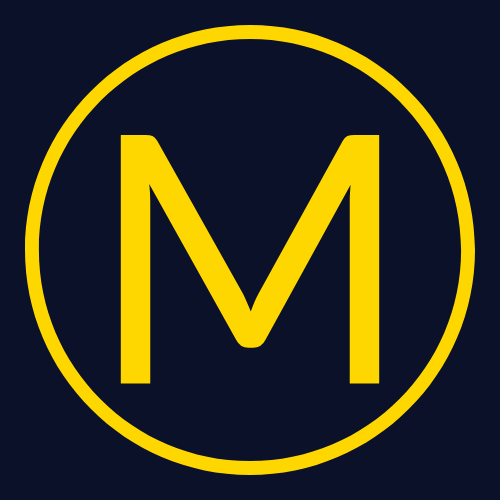
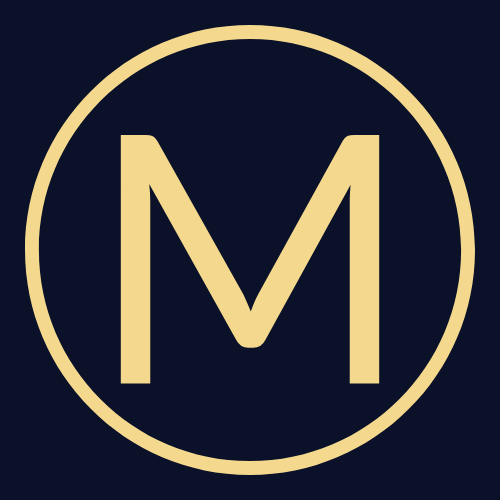
updated header.scss

Changed region(s): [[0.03, 0.03, 0.96, 0.96], [0.24, 0.27, 0.78, 0.78]]

diff --git a/src/components/pages/header/header.module.scss b/src/components/pages/header/header.module.scss
@@ -1,6 +1,29 @@
 .header{
     display: flex;
     align-items: center;
+    justify-content: space-between;
     max-width: 780px;
     margin: 0 auto;
+    padding-top: 20px;
+
+    .navBar{
+        display: flex;
+        align-items: center;
+        justify-content: space-between;
+        gap: 10px;
+        color: rgba(255, 255, 255, 0.9);
+
+        & a:hover{
+            color: #f3d88e;
+        }
+    }
+
+    .navIcons{
+        display: flex;
+        justify-content: space-between;
+        align-items: center;
+        width: 70px;
+        height: 40px;
+        margin: 0 10px;
+    }
 }

diff --git a/src/components/pages/header/Header.jsx b/src/components/pages/header/Header.jsx
@@ -8,11 +8,11 @@ const Header = () => {
     <header className={styles.header}>
        <img src="./icon.png" alt="logo" width={50} height={50} style={{padding: 2}}/>
        <nav className={styles.navBar}>
-         <a href="">About me</a>
+         <a href="">About</a>
          <a href="">Portfolio</a>
-         <a href="">Contact me</a>
+         <a href="">Contacts</a>
        </nav>
-       <nav>
+       <nav className={styles.navIcons}>
          <a href="https://www.linkedin.com/in/markiyan-marych/" target='_blanc'>
           <In/>
          </a>

diff --git a/src/components/icons/GitHub.jsx b/src/components/icons/GitHub.jsx
@@ -1,6 +1,6 @@
 import styles from './icons.module.scss';
 
-const GitHub = ({ width = 30, height = 30, color = "#1a2d40" }) => {
+const GitHub = ({ width = 30, height = 30, color = "#f3d88e" }) => {
   return (
      <section className={styles.icons}>
       <svg

diff --git a/src/index.css b/src/index.css
@@ -6,7 +6,7 @@ body {
 
 body {
   background-color: #0a1128;
-  color: #ffd700;
+  /* color: #ffd700; */
   font-family: Arial, Helvetica, sans-serif;
   -webkit-font-smoothing: antialiased;
   -moz-osx-font-smoothing: grayscale;

diff --git a/src/components/icons/In.jsx b/src/components/icons/In.jsx
@@ -1,6 +1,6 @@
 import styles from './icons.module.scss';
 
-const In = ({ width = 30, height = 30, color = "#1a2d40" }) => {
+const In = ({ width = 30, height = 30, color = "#f3d88e" }) => {
 
 
   return (

diff --git a/src/components/icons/icons.module.scss b/src/components/icons/icons.module.scss
@@ -4,10 +4,6 @@
   justify-content: center;
   width: 30px;
   height: 30px;
-  background-color: #ffd700;
   border-radius: 20px;
   margin-left: 2px;
-}
-.navBar{
-    
 }
